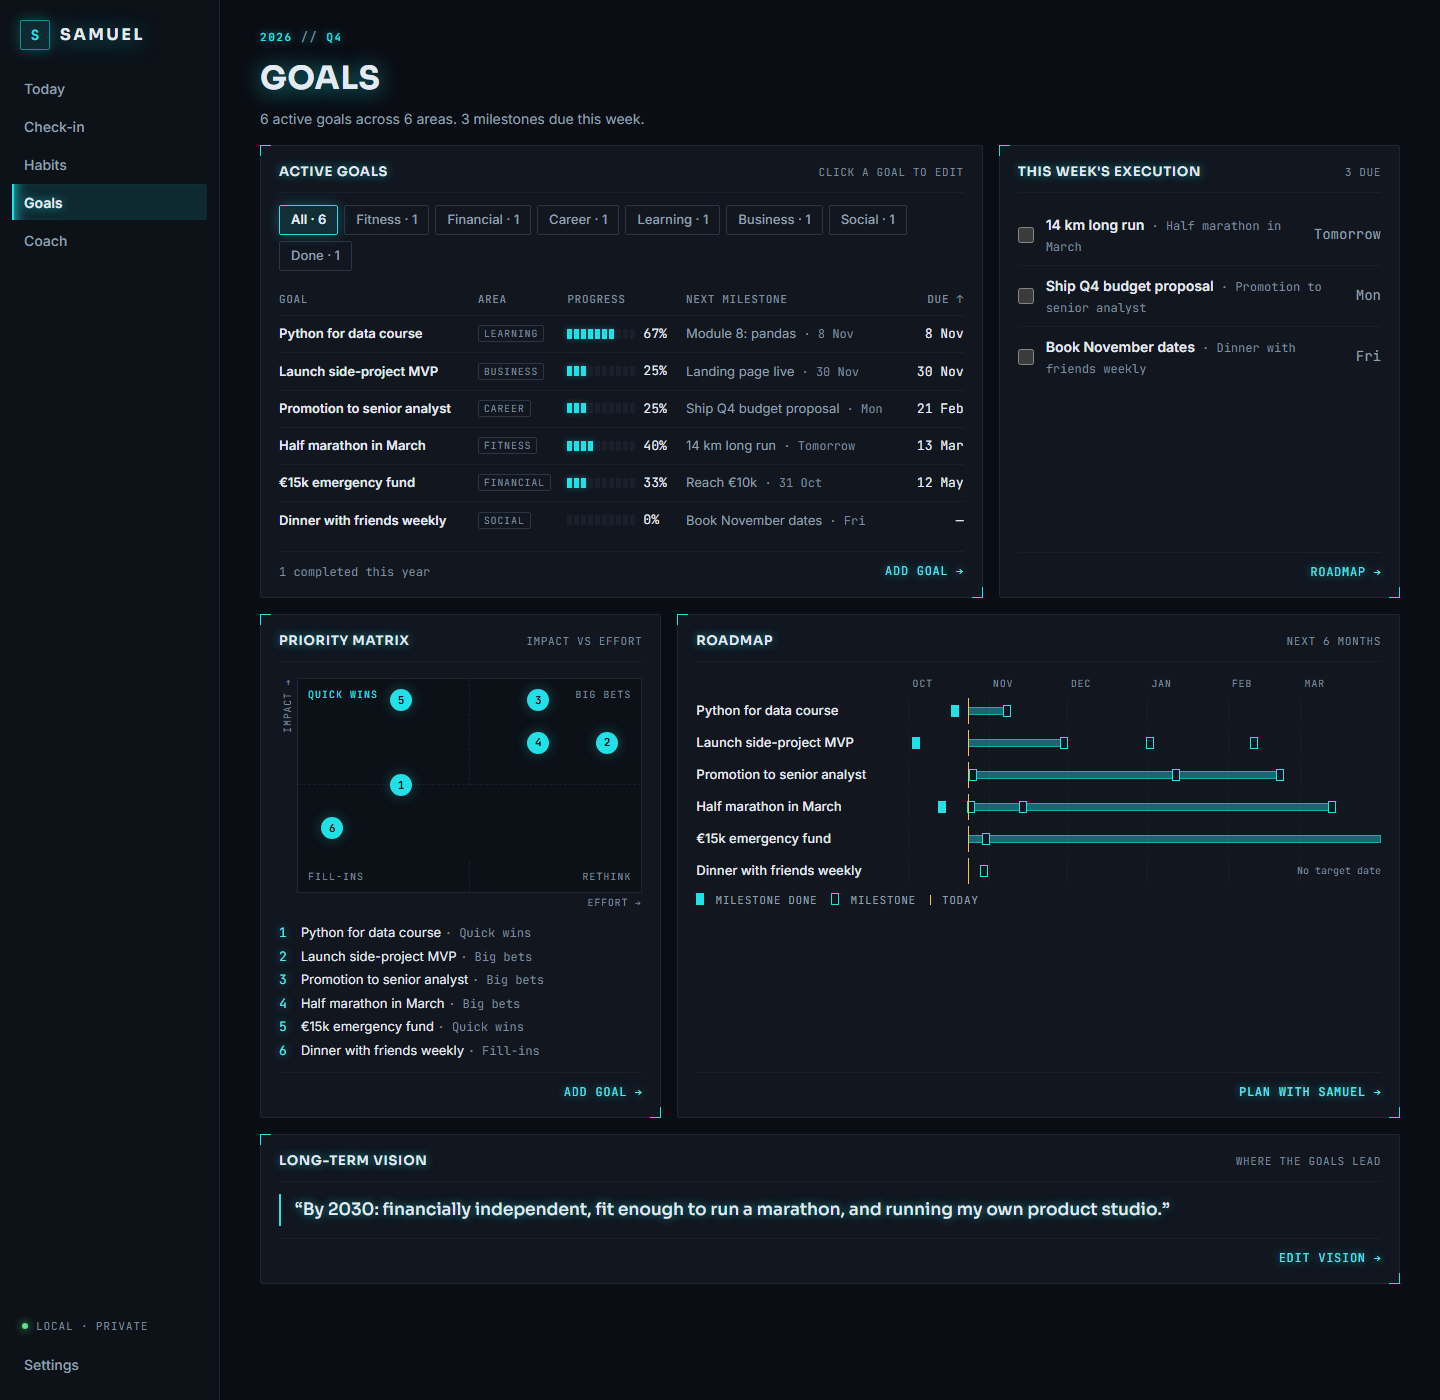
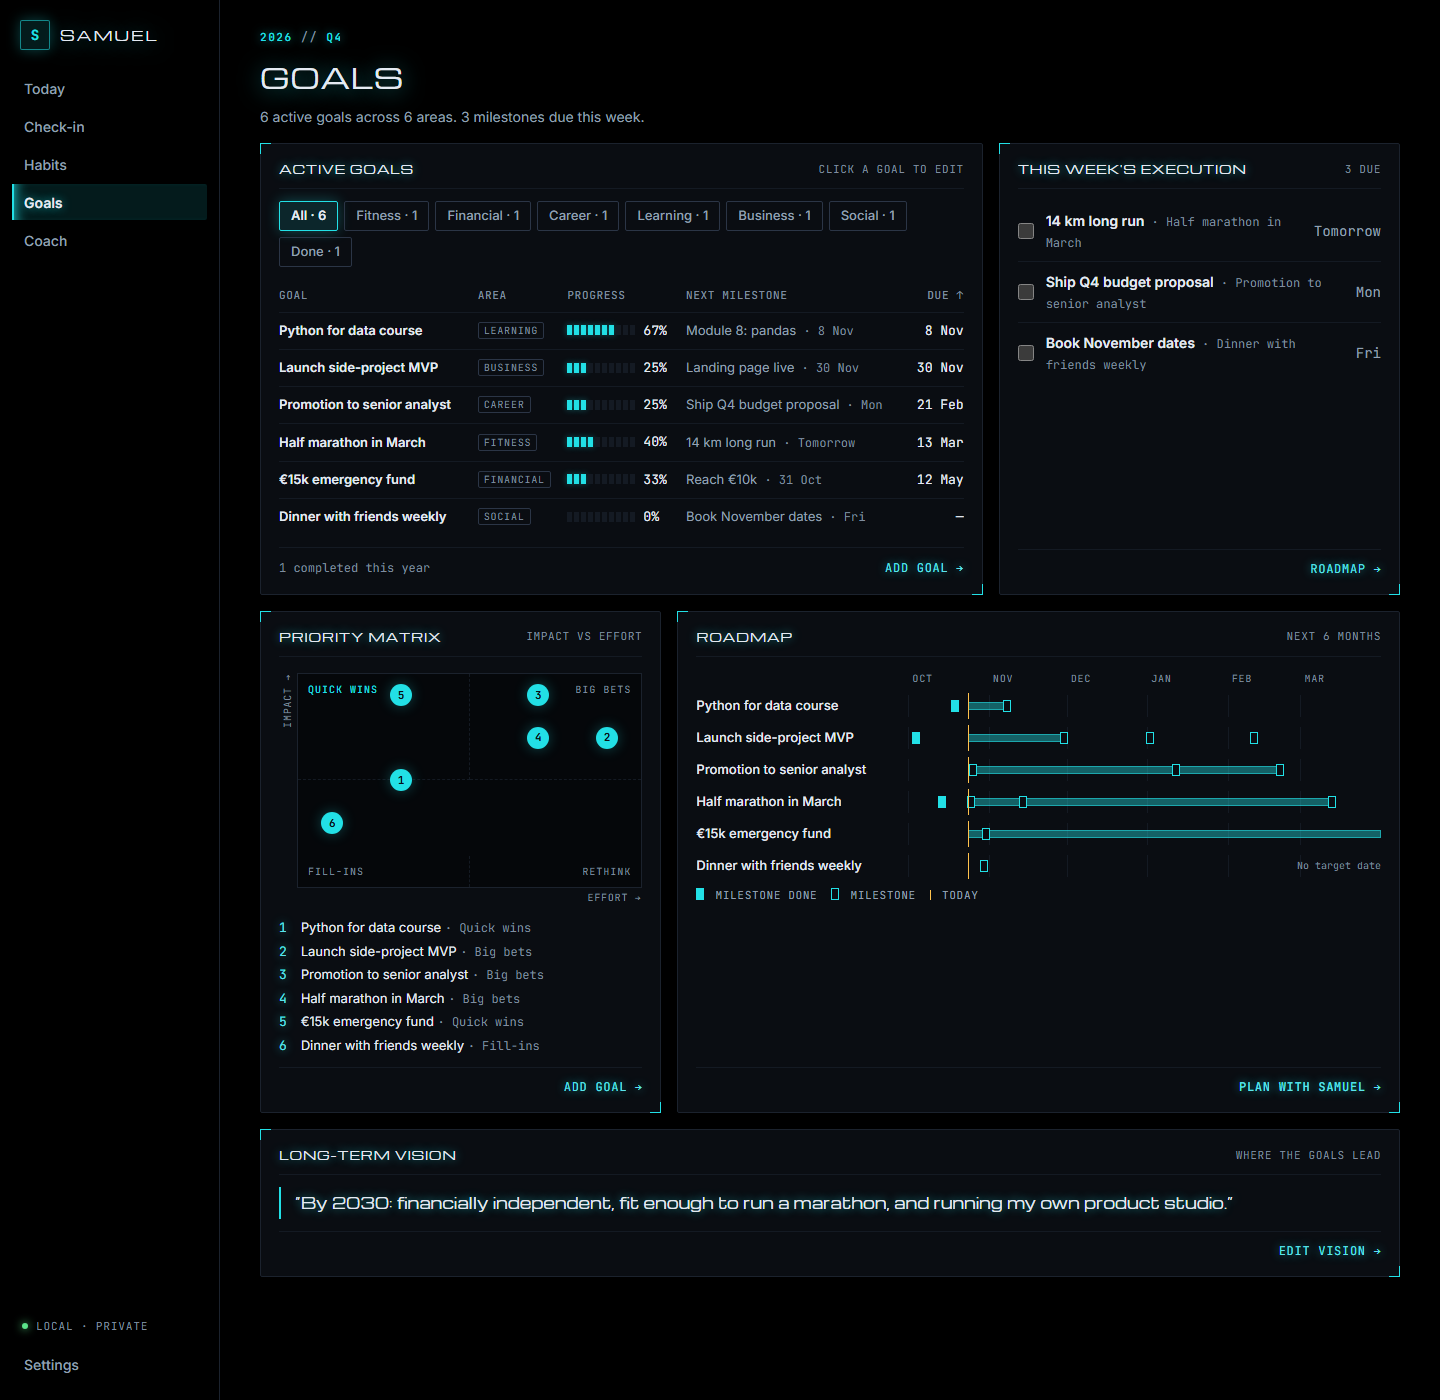
Make the background pure black and use Michroma for headings (#29)
The user asked for a completely black background and a more tech, modern
font. Cards stay a hair above black so they still read. Michroma has one
weight, so headings no longer ask for bold. The design rules now allow
pure black for the page and sidebar only.

diff --git a/frontend/src/index.css b/frontend/src/index.css
@@ -1,12 +1,13 @@
 /* Every colour lives here as a variable. Components never use hex values directly,
    so the theme can be rebuilt from any accent later (see Custom themes in docs/PLAN.md). */
 :root {
-  --page: #0a0d13;
-  --sidebar: #0d1118;
-  --card: #11161f;
-  --inset: #0c1017;
-  --border: #1e2633;
-  --divider: #19202b;
+  /* The page is pure black by the user's choice; cards sit a hair above it so they still read. */
+  --page: #000000;
+  --sidebar: #000000;
+  --card: #0a0d12;
+  --inset: #05070a;
+  --border: #1b222d;
+  --divider: #141a23;
   --border-strong: #2b3546;
   --text: #e4eaf2;
   --text-body: #c3ccd8;
@@ -24,7 +25,7 @@
   --amber: #ffc24d;
   --blue: #5cb8ff;
 
-  --font-display: 'Sora', system-ui, sans-serif;
+  --font-display: 'Michroma', system-ui, sans-serif;
   --font-body: 'Inter', system-ui, sans-serif;
   --font-mono: 'JetBrains Mono', ui-monospace, monospace;
 
@@ -56,7 +57,7 @@ body {
 a { color: var(--link); text-decoration: none; font-weight: 500; }
 a:hover { color: var(--accent); }
 :focus-visible { outline: 1px solid var(--accent); outline-offset: 2px; }
-h1, h2, h3 { font-family: var(--font-display); margin: 0; letter-spacing: 0.02em; }
+h1, h2, h3 { font-family: var(--font-display); font-weight: 400; margin: 0; letter-spacing: 0.02em; }
 button, input, textarea, select { font: inherit; color: inherit; }
 ::selection { background: var(--accent-mid); color: var(--text); }
 
@@ -88,7 +89,7 @@ button, input, textarea, select { font: inherit; color: inherit; }
   display: grid; place-items: center; font-family: var(--font-mono); font-weight: 700; font-size: 14px;
   box-shadow: var(--glow);
 }
-.brand-name { font-family: var(--font-display); font-weight: 700; font-size: 16px; letter-spacing: 0.16em; text-transform: uppercase; }
+.brand-name { font-family: var(--font-display); font-weight: 400; font-size: 14px; letter-spacing: 0.14em; text-transform: uppercase; }
 .nav-link {
   display: flex; align-items: center; gap: 10px; height: 36px; padding: 0 10px; border-radius: var(--radius-small);
   color: var(--text-muted); font-weight: 500; border-left: 2px solid transparent;
@@ -117,7 +118,7 @@ main { flex: 1; min-width: 0; padding: 28px clamp(16px, 3vw, 40px) 48px; }
   font-size: 11px; font-weight: 500; letter-spacing: 0.14em; text-transform: uppercase; color: var(--accent);
 }
 .page-head h1 {
-  margin: 8px 0 6px; font-size: clamp(26px, 2.6vw, 32px); font-weight: 700; letter-spacing: 0.02em; text-transform: uppercase;
+  margin: 10px 0 8px; font-size: clamp(22px, 2.2vw, 28px); font-weight: 400; letter-spacing: 0.02em; text-transform: uppercase;
 }
 .page-head p { margin: 0; color: var(--text-muted); font-size: 14px; }
 .row { display: flex; flex-wrap: wrap; gap: 16px; align-items: stretch; }
@@ -136,7 +137,7 @@ main { flex: 1; min-width: 0; padding: 28px clamp(16px, 3vw, 40px) 48px; }
 .card::before, .scores::before { top: -1px; left: -1px; border-top: 1px solid var(--bracket); border-left: 1px solid var(--bracket); }
 .card::after, .scores::after { bottom: -1px; right: -1px; border-bottom: 1px solid var(--bracket); border-right: 1px solid var(--bracket); }
 .card-head { display: flex; align-items: center; gap: 10px; padding-bottom: 10px; border-bottom: 1px solid var(--divider); }
-.card-head h2 { font-size: 13px; font-weight: 600; flex: 1; text-transform: uppercase; letter-spacing: 0.06em; }
+.card-head h2 { font-size: 12px; font-weight: 400; flex: 1; text-transform: uppercase; letter-spacing: 0.06em; }
 .card-meta { font-size: 11px; color: var(--text-faint); text-transform: uppercase; letter-spacing: 0.06em; }
 .card-foot {
   margin-top: auto; display: flex; align-items: center; justify-content: space-between; gap: 12px;
@@ -366,7 +367,7 @@ textarea.input { height: auto; min-height: 68px; padding: 9px 12px; resize: vert
 .legend-today { height: 10px; }
 .vision {
   margin: 0; padding: 4px 0 4px 14px; border-left: 2px solid var(--accent); color: var(--text);
-  font-family: var(--font-display); font-size: 17px; line-height: 1.45;
+  font-family: var(--font-display); font-size: 15px; line-height: 1.6;
 }
 
 /* Onboarding */

diff --git a/frontend/src/main.tsx b/frontend/src/main.tsx
@@ -1,9 +1,7 @@
 import { StrictMode } from 'react'
 import { createRoot } from 'react-dom/client'
 // Fonts are bundled with the app: no requests to font CDNs.
-import '@fontsource/sora/500.css'
-import '@fontsource/sora/600.css'
-import '@fontsource/sora/700.css'
+import '@fontsource/michroma/400.css'
 import '@fontsource/inter/400.css'
 import '@fontsource/inter/500.css'
 import '@fontsource/inter/600.css'

diff --git a/CLAUDE.md b/CLAUDE.md
@@ -49,9 +49,9 @@ As you work, commit to Git and push to GitHub regularly, so there is always a sa
 `design/*.dc.html` and `design/canvas.json` are the source of the design canvas at https://claude.ai/artifact/1DUdad1m3RYN15j932Dagj (Onboarding, Home with Needs a reply, Check-in, Habits, Health & energy, Goals, Weekly and Monthly reviews, Coach, Tasks, Ctrl+K palette, Settings → Appearance). Keep the files and the canvas in sync when designs change, and build the app to match them.
 
 Design rules:
-- Tech style (since 2026-10-24, this overrides the canvas's colours and fonts; the canvas still defines layout): deep blue-black surfaces (page #0A0D13, sidebar #0D1118, card #11161F, border #1E2633) and one electric cyan accent (default #22E0E6). Status colours: green #5BE38A, amber #FFC24D, blue #5CB8FF. Every text colour passes WCAG AA on every surface.
-- Mission control details (since 2026-10-24): Sora for uppercase headings (round, not blocky), Inter for body text, JetBrains Mono for numbers, times, and small uppercase labels, all bundled locally. Sharp 2px corners, thin 1px borders, accent corner brackets on cards, segmented LED-style meters, a soft accent glow on active items, and a soft accent glow under headings, labels and key numbers (a text-shadow). No background grid. Settings sits at the bottom-left of the sidebar.
+- Tech style (since 2026-10-24, this overrides the canvas's colours and fonts; the canvas still defines layout): a pure black page and sidebar (#000000, the user's choice) with cards a hair above it (card #0A0D12, border #1B222D) and one electric cyan accent (default #22E0E6). Status colours: green #5BE38A, amber #FFC24D, blue #5CB8FF. Every text colour passes WCAG AA on every surface.
+- Mission control details (since 2026-10-24): Michroma for uppercase headings (wide, smooth and techy; one weight, so never fake a bold), Inter for body text, JetBrains Mono for numbers, times, and small uppercase labels, all bundled locally. Sharp 2px corners, thin 1px borders, accent corner brackets on cards, segmented LED-style meters, a soft accent glow on active items, and a soft accent glow under headings, labels and key numbers (a text-shadow). No background grid. Settings sits at the bottom-left of the sidebar.
 - Users can re-theme from any accent (see Custom themes in `docs/PLAN.md`), so build every colour from CSS variables and never hard-code the hex values in components.
 - Every card prompts an action and ends with a "→" link.
 - Dense lists of 5–10 rows with "Show more", filter pills, sortable headers, and visible labels.
-- No hero KPI cards, emoji, gradients, glass effects, nested cards, or pure black/white. Glow is a box-shadow on active items, never a gradient fill.
+- No hero KPI cards, emoji, gradients, glass effects, nested cards, or pure white. Pure black is used only for the page and sidebar background. Glow is a box-shadow on active items, never a gradient fill.

diff --git a/docs/PLAN.md b/docs/PLAN.md
@@ -129,7 +129,7 @@ design/    canvas source (kept in sync)
 
 **Settings → Appearance:** a hue wheel, vibe presets, theme controls and a live preview.
 
-**Palette (tech style, 2026-10-24):** a deep blue-black base (page #0A0D13, cards #11161F) with an electric cyan accent (default #22E0E6; sky, iris, sunrise and pink are alternatives) and crisp status colours (green #5BE38A, amber #FFC24D, blue #5CB8FF). Fonts: Sora, Inter and JetBrains Mono. A mission control finish: 2px corners, card corner brackets, LED-style segmented meters, a soft glow on active items and under headings and labels. The canvas designs keep the earlier palette and fonts; the app's styles are the reference for colour and type.
+**Palette (tech style, 2026-10-24):** a pure black base (page #000000, cards #0A0D12) with an electric cyan accent (default #22E0E6; sky, iris, sunrise and pink are alternatives) and crisp status colours (green #5BE38A, amber #FFC24D, blue #5CB8FF). Fonts: Michroma, Inter and JetBrains Mono. A mission control finish: 2px corners, card corner brackets, LED-style segmented meters, a soft glow on active items and under headings and labels. The canvas designs keep the earlier palette and fonts; the app's styles are the reference for colour and type.
 
 **Custom themes (Settings → Appearance):**
 - Electric cyan is the default ("Calm" vibe).

diff --git a/CHANGELOG.md b/CHANGELOG.md
@@ -8,7 +8,7 @@ All notable changes to Samuel are listed here. Versions follow [semantic version
 - **Goals:** goals by life area with milestones, progress from milestones done (a dash until a goal has any), area filters and sorting, a priority matrix (impact vs effort), a 6-month roadmap, this week's milestones and your long-term vision. Samuel's export now includes active goals and what's due this week.
 
 ### Changed
-- **Rounder headings:** Sora replaces Chakra Petch for headings, so titles look less blocky.
+- **Black and Michroma:** the page and sidebar are pure black, and headings use Michroma, a wide, smooth tech font (replacing Chakra Petch, which looked blocky).
 - **Glow and sidebar:** a soft accent glow under headings, labels and key numbers; the background grid is gone; Settings sits at the bottom-left of the sidebar, which now stays in place as the page scrolls.
 - **Mission control look:** Chakra Petch uppercase headings, sharp 2px corners, accent corner brackets on cards, LED-style segmented score meters, a faint grid behind the page, and a soft glow on active items.
 

diff --git a/README.md b/README.md
@@ -111,7 +111,7 @@ UI designs live in `design/` (the source of the canvas at https://claude.ai/arti
 | `design/Settings.dc.html` | Appearance: colour wheel, vibe presets, theme and live preview |
 
 Design rules: dark but bright theme with one vivid accent colour; every card ends in an action;
-no hero KPI cards, emoji, gradients, glass effects, nested cards, or pure black/white.
+no hero KPI cards, emoji, gradients, glass effects, nested cards, or pure white.
 
 ## License
 
